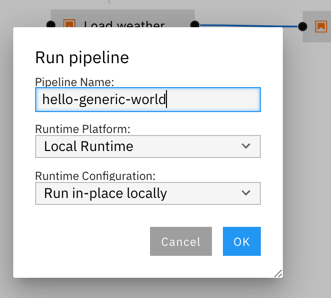
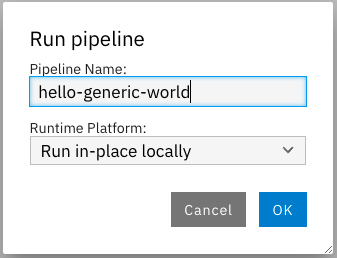
Fix issues in 'Introduction to Generic Pipelines' tutorial
* Update local run dialog image
* Fix links

diff --git a/pipelines/introduction-to-generic-pipelines/README.md b/pipelines/introduction-to-generic-pipelines/README.md
@@ -31,7 +31,7 @@ In this introductory tutorial you will learn how to create a generic pipeline an
 
  When you run a pipeline in your local environment, each Jupyter notebook or script is executed in a Kernel on the machine where JupyterLab is running, such as your laptop. Since resources on that machine might be limited local pipeline execution might not always be a viable option.
 
- The [Hello World Kubeflow Pipelines tutorial](https://github.com/elyra-ai/examples/tree/master/pipelines/hello_world_kubeflow_pipelines) and [Hello World Apache Airflow tutorial](https://github.com/elyra-ai/examples/tree/master/pipelines/hello_world_apache_airflow) are similar to this tutorial but run the pipeline on Kubeflow Pipelines or Apache Airflow, enabling you to take advantage of shared compute resources in the cloud that might dramatically reduce pipeline processing time or allow for processing of much larger data volumes.
+ The [Run generic pipelines on Kubeflow Pipelines tutorial](https://github.com/elyra-ai/examples/tree/master/pipelines/run-generic-pipelines-on-kubeflow-pipelines) and [Run generic pipelines on Apache Airflow tutorial](https://github.com/elyra-ai/examples/tree/master/pipelines/run-generic-pipelines-on-apache-airflow) are similar to this tutorial but run the pipeline on Kubeflow Pipelines or Apache Airflow, enabling you to take advantage of shared compute resources in the cloud that might dramatically reduce pipeline processing time or allow for processing of much larger data volumes.
 
 ### Prerequisites
 
